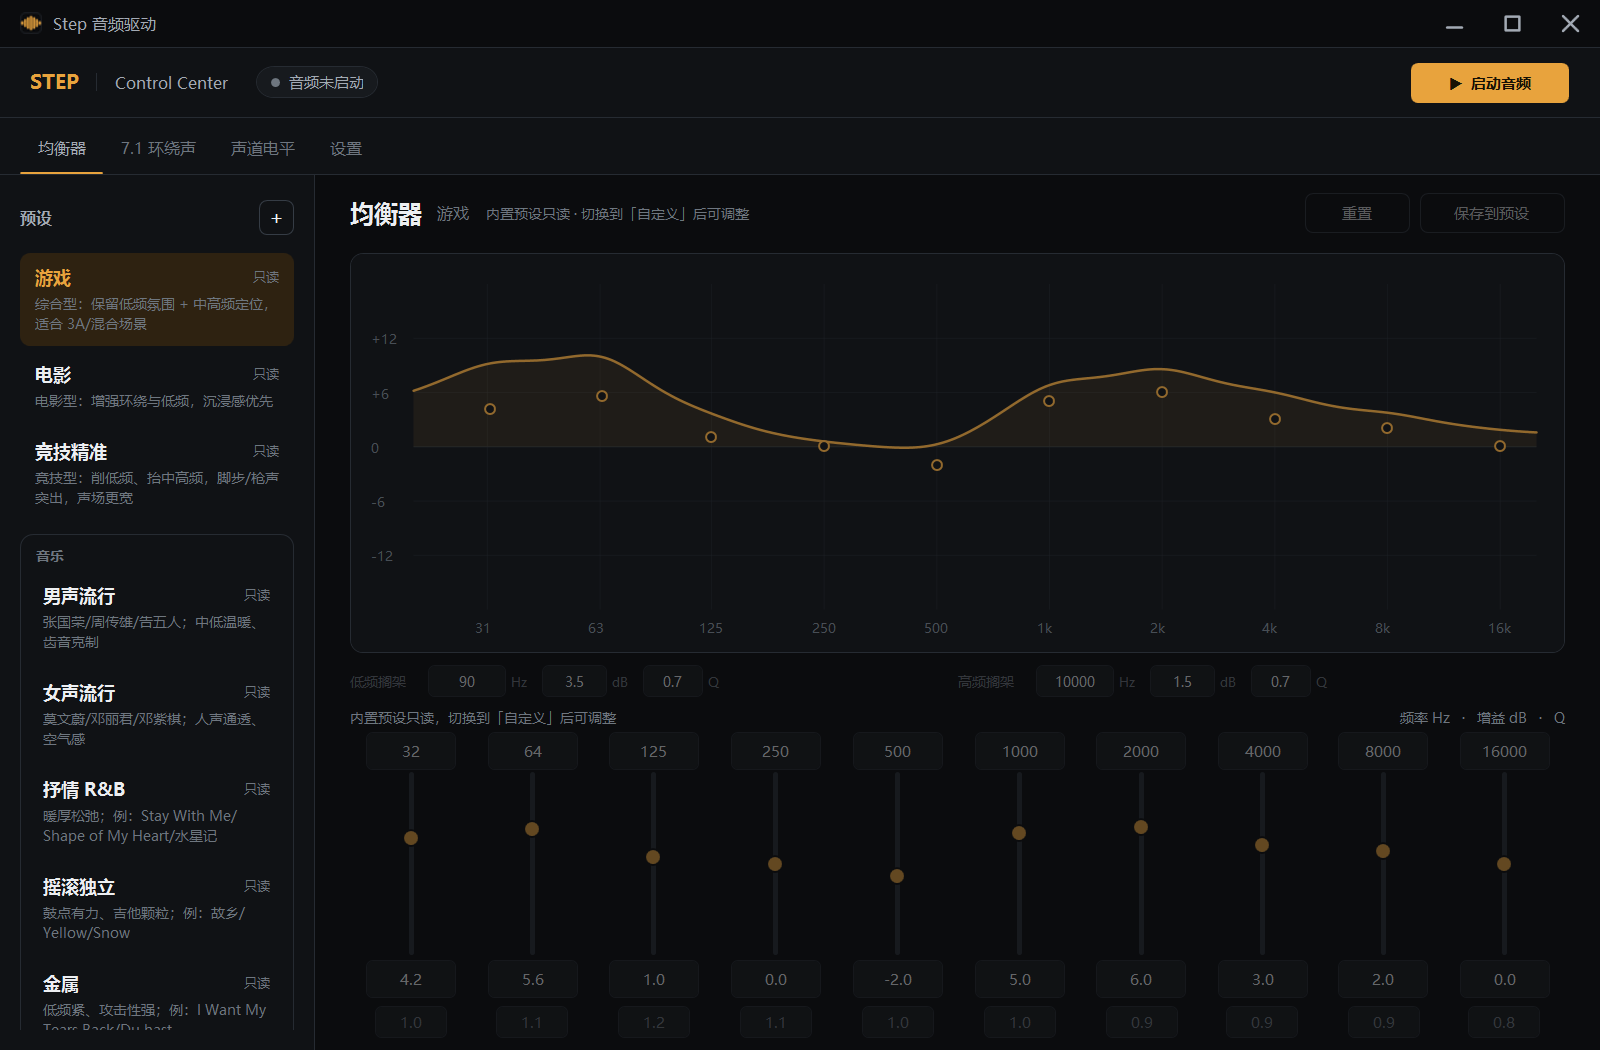
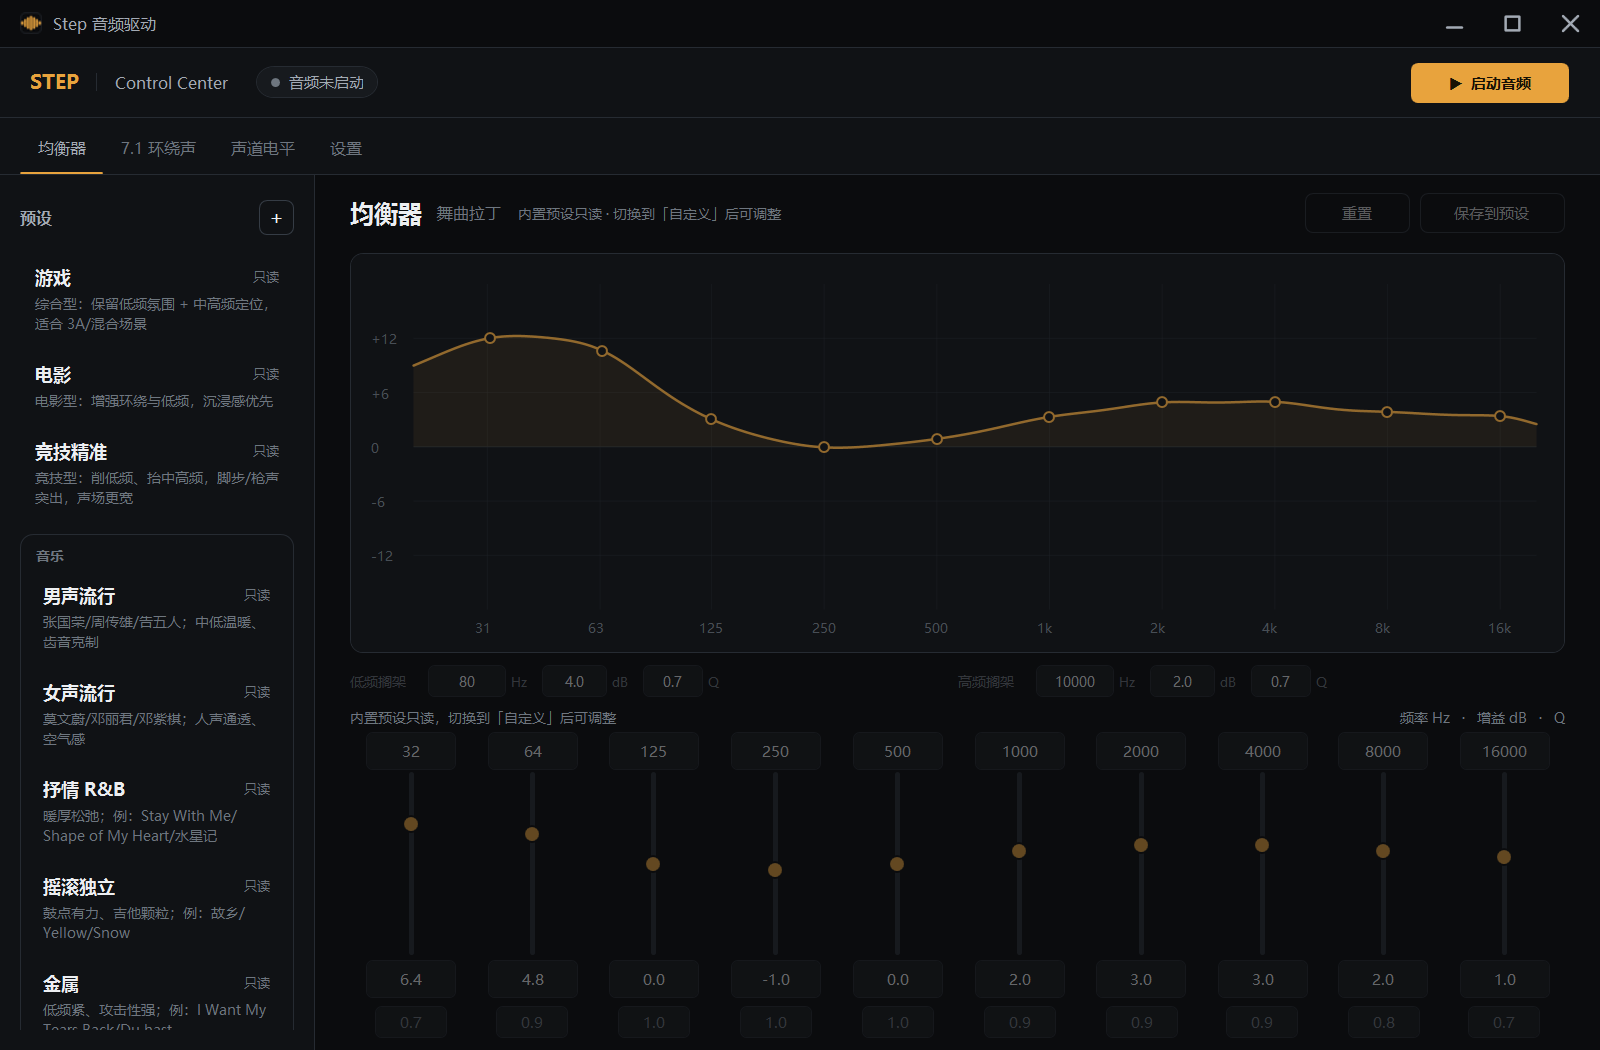
Add autostart, shelf EQ, aligned curve points, and uninstall cleanup

diff --git a/src/Step.UI/MainWindow.xaml b/src/Step.UI/MainWindow.xaml
@@ -787,6 +787,20 @@
                         Unchecked="ChkDspBypass_Changed"/>
             </Grid>
 
+            <Grid Margin="0,0,0,16">
+              <Grid.ColumnDefinitions>
+                <ColumnDefinition Width="180"/>
+                <ColumnDefinition Width="*"/>
+              </Grid.ColumnDefinitions>
+              <TextBlock Text="启动" FontSize="13" Foreground="{StaticResource BrText1}"
+                         VerticalAlignment="Center"/>
+              <CheckBox Grid.Column="1" Name="ChkAutoStart"
+                        AutomationProperties.AutomationId="ChkAutoStart"
+                        Content="开机自动启动（最小化到任务栏）"
+                        Checked="ChkAutoStart_Changed"
+                        Unchecked="ChkAutoStart_Changed"/>
+            </Grid>
+
             <Border Height="1" Background="{StaticResource BrBorder}" Margin="0,0,0,20"/>
 
             <TextBlock Text="状态" FontSize="12" FontWeight="SemiBold"

diff --git a/src/Step.UI/MainWindow.xaml.cs b/src/Step.UI/MainWindow.xaml.cs
@@ -33,6 +33,7 @@ public partial class MainWindow : Window
     private DirectionalTestPlayer? _testTonePlayer;
     private bool _isStartingAudio;
     private bool _isRecoveringAudio;
+    private bool _syncingAutoStart;
     private int _recoveryAttempts;
     private DateTime _recoveryWindowStart = DateTime.UtcNow;
     private string _selectedDeviceId = string.Empty;
@@ -211,6 +212,35 @@ public partial class MainWindow : Window
     {
         if (_audioProcessor != null)
             _audioProcessor.DspBypass = ChkDspBypass.IsChecked == true;
+    }
+
+    private void ChkAutoStart_Changed(object sender, RoutedEventArgs e)
+    {
+        if (_syncingAutoStart)
+            return;
+
+        try
+        {
+            string? executablePath = Environment.ProcessPath;
+
+            if (string.IsNullOrWhiteSpace(executablePath) ||
+                !executablePath.EndsWith(".exe", StringComparison.OrdinalIgnoreCase))
+            {
+                throw new InvalidOperationException("当前不是以 exe 形式运行，无法设置开机自启动。");
+            }
+
+            StartupManager.SetEnabled(ChkAutoStart.IsChecked == true, executablePath);
+            Log($"开机自启动：{(ChkAutoStart.IsChecked == true ? "已启用" : "已关闭")}");
+        }
+        catch (Exception ex)
+        {
+            _syncingAutoStart = true;
+            ChkAutoStart.IsChecked = !(ChkAutoStart.IsChecked == true);
+            _syncingAutoStart = false;
+
+            MessageBox.Show($"设置开机自启动失败：{ex.Message}", "提示",
+                MessageBoxButton.OK, MessageBoxImage.Warning);
+        }
     }
 
     private void ChkDirectionOverlay_Changed(object sender, RoutedEventArgs e)
@@ -428,6 +458,13 @@ public partial class MainWindow : Window
 
             // 仅调试构建：--ui-overlay 用于无需音频的悬浮窗截图/验证
 #if DEBUG
+            if (Environment.GetCommandLineArgs().Any(a => a == "--ui-settings"))
+            {
+                _ = Dispatcher.BeginInvoke(
+                    new Action(() => MainTabs.SelectedIndex = 3),
+                    DispatcherPriority.Loaded);
+            }
+
             if (Environment.GetCommandLineArgs().Any(a => a == "--ui-overlay"))
                 ChkDirectionOverlay.IsChecked = true;
 
@@ -449,6 +486,13 @@ public partial class MainWindow : Window
                 demoTimer.Start();
             }
 #endif
+
+            _syncingAutoStart = true;
+            ChkAutoStart.IsChecked = StartupManager.IsEnabled();
+            _syncingAutoStart = false;
+
+            if (Environment.GetCommandLineArgs().Any(a => a == "--autostart"))
+                WindowState = WindowState.Minimized;
 
             // 布局完成后再画一次，修正初始尺寸
             _ = Dispatcher.BeginInvoke(new Action(() => DrawEQCurve()), DispatcherPriority.Loaded);
@@ -1330,7 +1374,7 @@ public partial class MainWindow : Window
         LockHint.Visibility = editable ? Visibility.Collapsed : Visibility.Visible;
 
         CurveHint.Text = editable
-            ? "拖动曲线控制点同时调整频率与增益，双击单段复位"
+            ? "曲线为 10 段 + 搁架总响应；拖动控制点调整该段频率/增益"
             : "内置预设只读，切换到「自定义」后可调整";
     }
 
@@ -1799,6 +1843,15 @@ public partial class MainWindow : Window
         return PlotDbRange - t * PlotDbRange * 2;
     }
 
+    /// <summary>
+    /// 该频点的总响应（10 段 + 两个搁架的叠加），控制点画在这里才能落在曲线上。
+    /// </summary>
+    private double TotalResponseAt(double frequency)
+    {
+        var response = _curveEngine.GetMagnitudeResponseDb(new[] { (float)Math.Clamp(frequency, 1, 20000) });
+        return response[0];
+    }
+
     private void DrawEQCurve()
     {
         if (EQCurveCanvas == null) return;
@@ -1938,7 +1991,10 @@ public partial class MainWindow : Window
         for (int i = 0; i < 10; i++)
         {
             double x = FrequencyToX(_eqFrequencies[i], left, plotWidth);
-            double y = GainToY(_eqBands[i], top, plotHeight);
+            double y = GainToY(
+                Math.Clamp(TotalResponseAt(_eqFrequencies[i]), -PlotDbRange, PlotDbRange),
+                top,
+                plotHeight);
 
             bool active = i == _selectedBand;
             bool hover = i == _hoverBand;
@@ -2004,7 +2060,10 @@ public partial class MainWindow : Window
         for (int i = 0; i < 10; i++)
         {
             double x = FrequencyToX(_eqFrequencies[i], left, plotWidth);
-            double y = GainToY(_eqBands[i], top, plotHeight);
+            double y = GainToY(
+                Math.Clamp(TotalResponseAt(_eqFrequencies[i]), -PlotDbRange, PlotDbRange),
+                top,
+                plotHeight);
 
             double dx = position.X - x;
             double dy = position.Y - y;
@@ -2072,7 +2131,9 @@ public partial class MainWindow : Window
 
         var (left, top, plotWidth, plotHeight) = GetPlotRegion();
 
-        double gain = Math.Clamp(YToGain(position.Y, top, plotHeight), -12, 12);
+        double desiredTotal = Math.Clamp(YToGain(position.Y, top, plotHeight), -12, 12);
+        double currentTotal = TotalResponseAt(_eqFrequencies[band]);
+        double gain = Math.Clamp(_eqBands[band] + (desiredTotal - currentTotal), -12, 12);
         double frequency = XToFrequency(position.X, left, plotWidth);
 
         double lower = band == 0 ? 20 : _eqFrequencies[band - 1] * 1.03;

diff --git a/src/Step.UI/StartupManager.cs b/src/Step.UI/StartupManager.cs
@@ -1,0 +1,36 @@
+namespace Step.UI;
+
+using Microsoft.Win32;
+
+/// <summary>
+/// 管理 HKCU\...\Run 中的开机自启动项。按用户生效，不需要管理员权限。
+/// </summary>
+public static class StartupManager
+{
+    private const string RunKeyPath = @"Software\Microsoft\Windows\CurrentVersion\Run";
+    private const string ValueName = "StepAudioDriver";
+
+    public static bool IsEnabled()
+    {
+        using var key = Registry.CurrentUser.OpenSubKey(RunKeyPath);
+        return key?.GetValue(ValueName) is string value && !string.IsNullOrWhiteSpace(value);
+    }
+
+    public static void SetEnabled(bool enabled, string executablePath)
+    {
+        if (enabled && string.IsNullOrWhiteSpace(executablePath))
+            throw new InvalidOperationException("无法确定程序路径，不能设置开机自启动。");
+
+        using var key = Registry.CurrentUser.CreateSubKey(RunKeyPath, writable: true)
+            ?? throw new InvalidOperationException("无法写入当前用户的启动项。");
+
+        if (enabled)
+        {
+            key.SetValue(ValueName, $"\"{executablePath}\" --autostart", RegistryValueKind.String);
+        }
+        else
+        {
+            key.DeleteValue(ValueName, throwOnMissingValue: false);
+        }
+    }
+}

diff --git a/README.md b/README.md
@@ -20,6 +20,7 @@
 - **声道电平页**：实时查看 8 个声道的 RMS 电平，判断游戏是否真的输出 7.1
 - **缓冲档位**：稳定 / 平衡 / 低延迟，按机器承受能力选择
 - **设置记忆**：关闭时保存预设、EQ、设备、格式、缓冲；下次启动恢复
+- **开机自启动**：登录后自动启动并最小化到任务栏；卸载时自动清理启动项
 - **自动 preamp**：按预设最大正增益衰减，避免 EQ 顶爆限幅器
 - **安装包**：自包含 .NET 8，按用户安装，无需管理员权限
 
@@ -40,7 +41,7 @@
 从 [Releases](https://github.com/cgxgeyw/StepAudioDriver/releases/latest) 下载：
 
 ```
-StepAudioDriver-1.3.0.msi
+StepAudioDriver-1.4.0.msi
 ```
 
 双击安装即可。安装范围为当前用户，目录：

diff --git a/installer/README.md b/installer/README.md
@@ -2,8 +2,8 @@
 
 ## 文件
 
-- `StepAudioDriver-1.3.0.msi`：Windows 安装包（64 位，自带 .NET 8 运行时）
-- `StepAudioDriver-1.3.0.sha256`：安装包校验值
+- `StepAudioDriver-1.4.0.msi`：Windows 安装包（64 位，自带 .NET 8 运行时）
+- `StepAudioDriver-1.4.0.sha256`：安装包校验值
 
 ## 系统要求
 
@@ -15,7 +15,7 @@ VB-CABLE 不随安装包分发，请从 [VB-Audio 官网](https://vb-audio.com/C
 
 ## 安装
 
-1. 双击 `StepAudioDriver-1.3.0.msi`
+1. 双击 `StepAudioDriver-1.4.0.msi`
 2. 按提示完成；安装范围为**当前用户**，不需要管理员权限
 3. 开始菜单和桌面会创建 `Step 音频驱动` 快捷方式
 

diff --git a/BUILD_INSTRUCTIONS.md b/BUILD_INSTRUCTIONS.md
@@ -177,8 +177,8 @@ pwsh installer/build-installer.ps1
 输出：
 
 ```
-artifacts/installer/StepAudioDriver-1.3.0.msi
-artifacts/installer/StepAudioDriver-1.3.0.sha256
+artifacts/installer/StepAudioDriver-1.4.0.msi
+artifacts/installer/StepAudioDriver-1.4.0.sha256
 ```
 
 脚本会：
